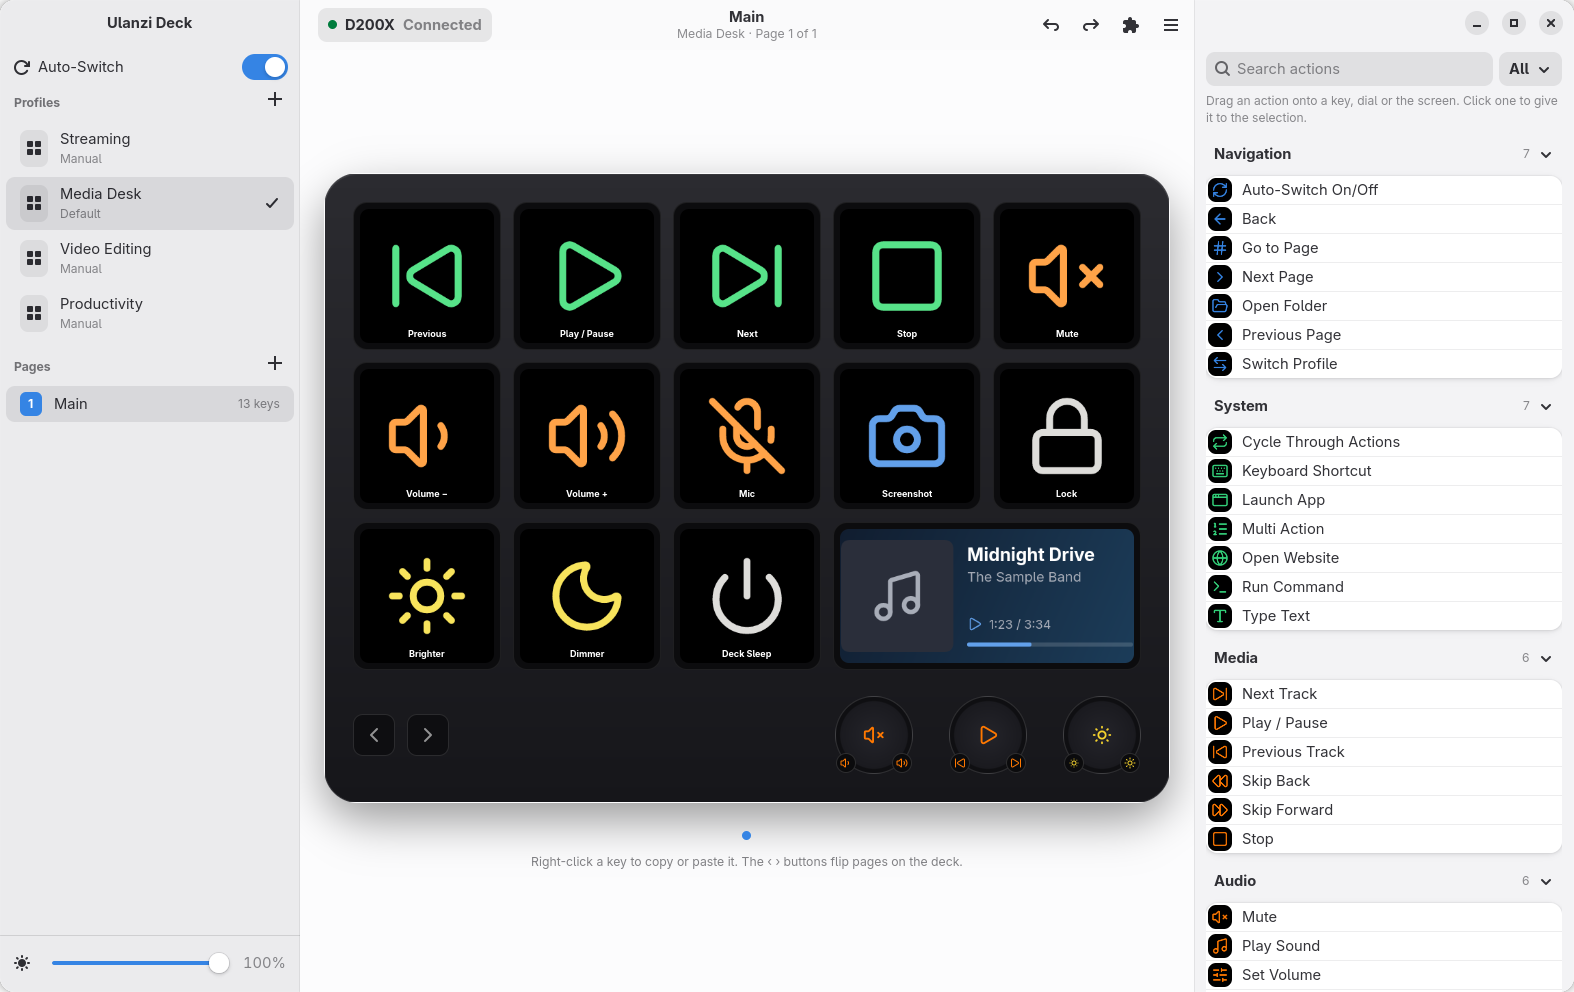
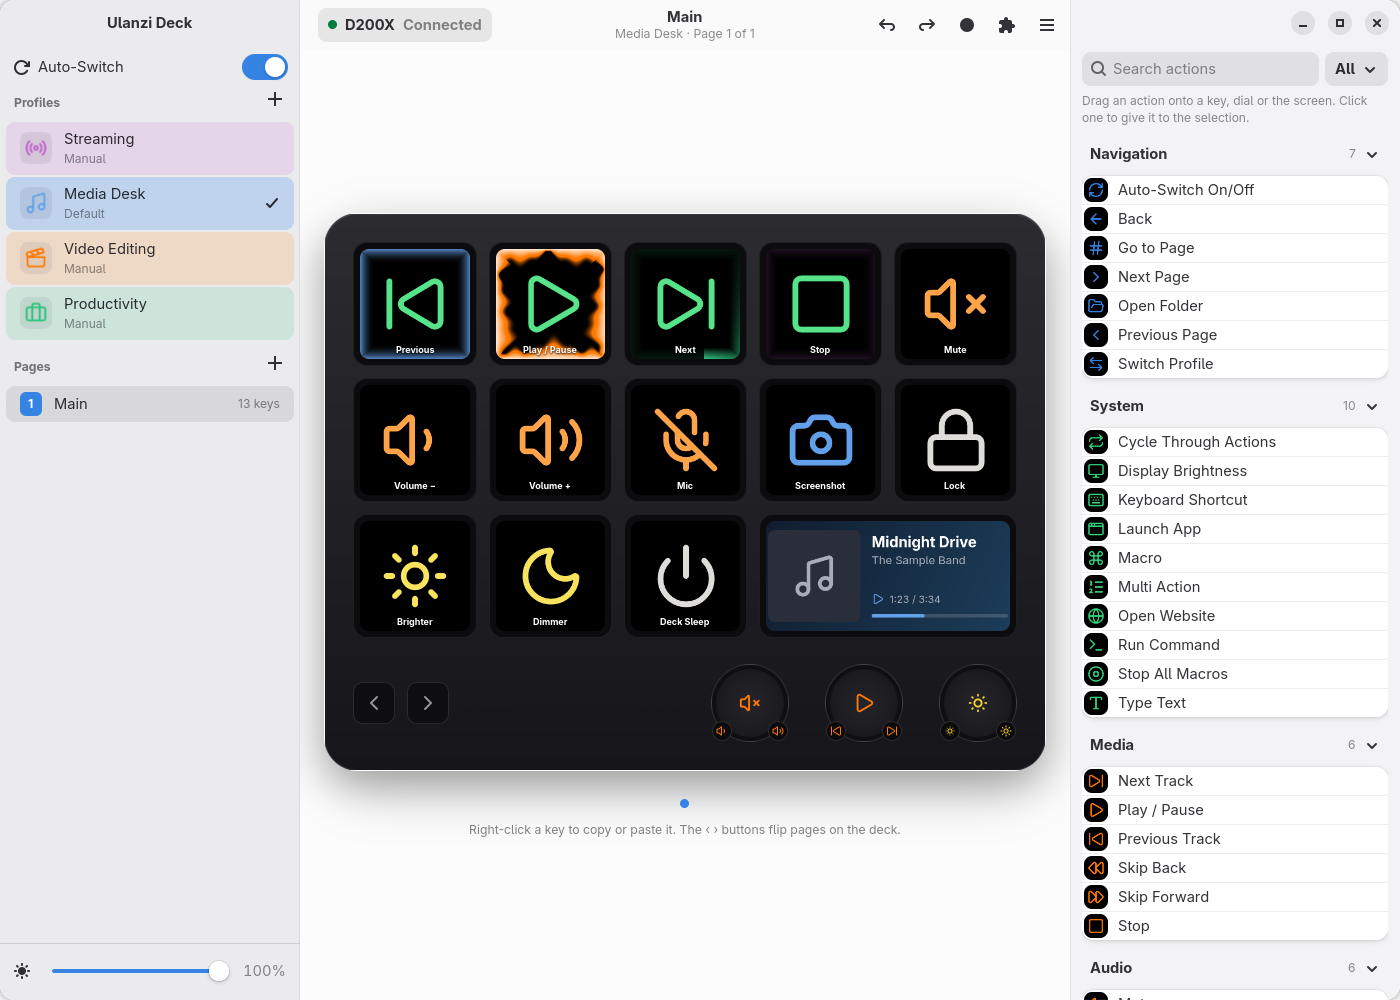
docs: new screenshots with effects and profile looks
The showcase profiles now use all four effects and have icons and
colours. The screenshot script waits for the side panel to settle,
retries a failed shot, and never counts an old file as a new one.

diff --git a/crates/ulanzi-core/examples/showcase.rs b/crates/ulanzi-core/examples/showcase.rs
@@ -118,9 +118,37 @@ fn main() {
         };
         if p.name == "Media Desk" {
             default = Some(p.id);
+            // One of each effect, on the page the screenshots show.
+            let looks = [
+                (EffectKind::Glow, Color::rgb(0x62, 0xa0, 0xea)),
+                (EffectKind::Fire, Color::rgb(0xff, 0x78, 0x00)),
+                (EffectKind::Chase, Color::rgb(0x2e, 0xc2, 0x7e)),
+                (EffectKind::Pulse, Color::rgb(0xc0, 0x61, 0xcb)),
+            ];
+            for (key, (kind, color)) in p.pages[0].keys.values_mut().zip(looks) {
+                key.look.effect = Effect {
+                    color: Some(color),
+                    ..Effect::of(kind)
+                };
+            }
         }
         order.push(p.id);
         store.save_profile(&p).expect("save profile");
+        let icon = match p.name.as_str() {
+            "Streaming" => "radio",
+            "Media Desk" => "music",
+            "Video Editing" => "clapperboard",
+            _ => "briefcase",
+        };
+        let look = ProfileLook {
+            source: Some(ImageSource::Icon {
+                set: IconSet::Lucide,
+                name: icon.into(),
+            }),
+            color: Some(accent),
+            from_app: None,
+        };
+        store.save_profile_look(p.id, &look).expect("save look");
     }
     let mut settings = store.load_settings().unwrap_or_default();
     settings.default_profile = default;
